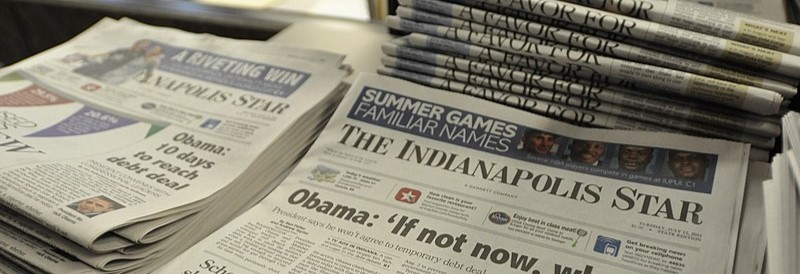
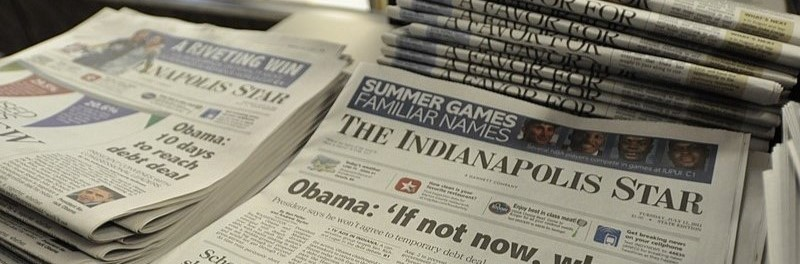
image size fixed all site

diff --git a/service/templates/resource/resource_library.html b/service/templates/resource/resource_library.html
@@ -201,11 +201,12 @@
         class="section-title text-center position-relative pb-3 mb-5 mx-auto"
         style="max-width: 1000px"
       >
-        <h5 class="fw-bold text-primary text-uppercase">OURS PUBLICATIONS</h5>
+        <h3 class="fw-bold text-primary text-uppercase">RESOURCE LIBRARY</h3>
         <h6 class="text-justify">
-  Dive into a wealth of knowledge and insights about the footwear industry and exports in Bangladesh. Our resource library is a comprehensive repository of information covering new market trends, design development, updated government regulations, production techniques, and productivity enhancement strategies. Whether you're an international brand, buyer, industry owner, supplier, or investor, this section is your go-to destination for staying informed and empowered in Bangladesh's dynamic footwear market. Items in this Section: Market Trends, Design Development, Government Regulations, Production Techniques, Productivity Enhancement, Industry Reports, Supplier Directories, Training and Workshops, Case Studies, Industry News and Updates.
-  This section serves as a valuable resource hub for industry stakeholders, providing access to essential information, insights, and tools for success in Bangladesh's dynamic footwear market.
-</h6>
+        Dive into a wealth of knowledge and insights about the footwear industry and exports in Bangladesh. Our resource library is a comprehensive repository of information covering new market trends, design development, updated government regulations, production techniques, and productivity enhancement strategies. Whether you're an international brand, buyer, industry owner, supplier, or investor, this section is your go-to destination for staying informed and empowered in Bangladesh's dynamic footwear market. Items in this Section: Market Trends, Design Development, Government Regulations, Production Techniques, Productivity Enhancement, Industry Reports, Supplier Directories, Training and Workshops, Case Studies, Industry News and Updates.
+        This section serves as a valuable resource hub for industry stakeholders, providing access to essential information, insights, and tools for success in Bangladesh's dynamic footwear market.
+      </h6>
+      <h5 class="fw-bold text-primary text-uppercase">OURS PUBLICATIONS</h5>
       </div>
            <div class="row row-cols-1 row-cols-md-2 row-cols-lg-3">
     {% for publication in publications %}

diff --git a/store/templates/store/company_list.html b/store/templates/store/company_list.html
@@ -154,19 +154,19 @@
             <div class="p-3" style="max-width: 900px">
 
               <h1 class="display-1 text-white mb-md-4 animated zoomIn">
-               Factories streamline production, efficiency.
+               Factories streamline production, efficiency
               </h1>
             </div>
           </div>
         </div>
         <div class="carousel-item">
-          <img class="w-100" src="{% static 'img/jutaPro.jpeg'%}" alt="Image" />
+          <img class="w-100" src="{% static 'img/juta.jpeg'%}" alt="Image" />
           <div
             class="carousel-caption d-flex flex-column align-items-center justify-content-center"
           >
             <div class="p-3" style="max-width: 900px">
               <h1 class="display-1 text-white mb-md-4 animated zoomIn">
-                Factories streamline production, efficiency.
+                Factories boost efficiency, streamlined production
               </h1>
             </div>
           </div>

diff --git a/service/templates/certificate/requirement_detail.html b/service/templates/certificate/requirement_detail.html
@@ -131,7 +131,7 @@
     >
       <div class="carousel-inner">
         <div class="carousel-item active">
-          <img class="w-100" src="{% static 'img/info.png'%}" alt="Image" />
+          <img class="w-100" src="{% static 'img/infoo.png'%}" alt="Image" />
           <div
             class="carousel-caption d-flex flex-column align-items-center justify-content-center"
           >
